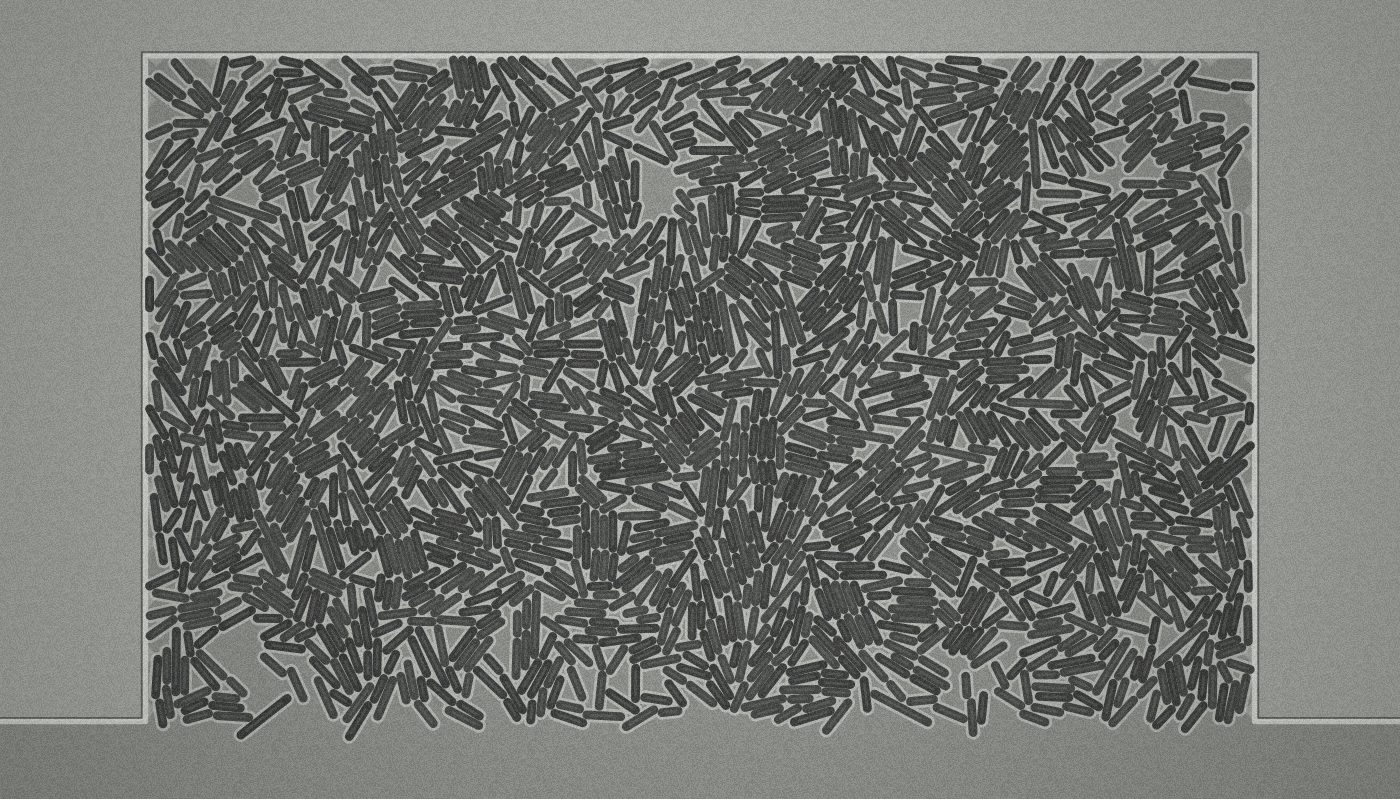
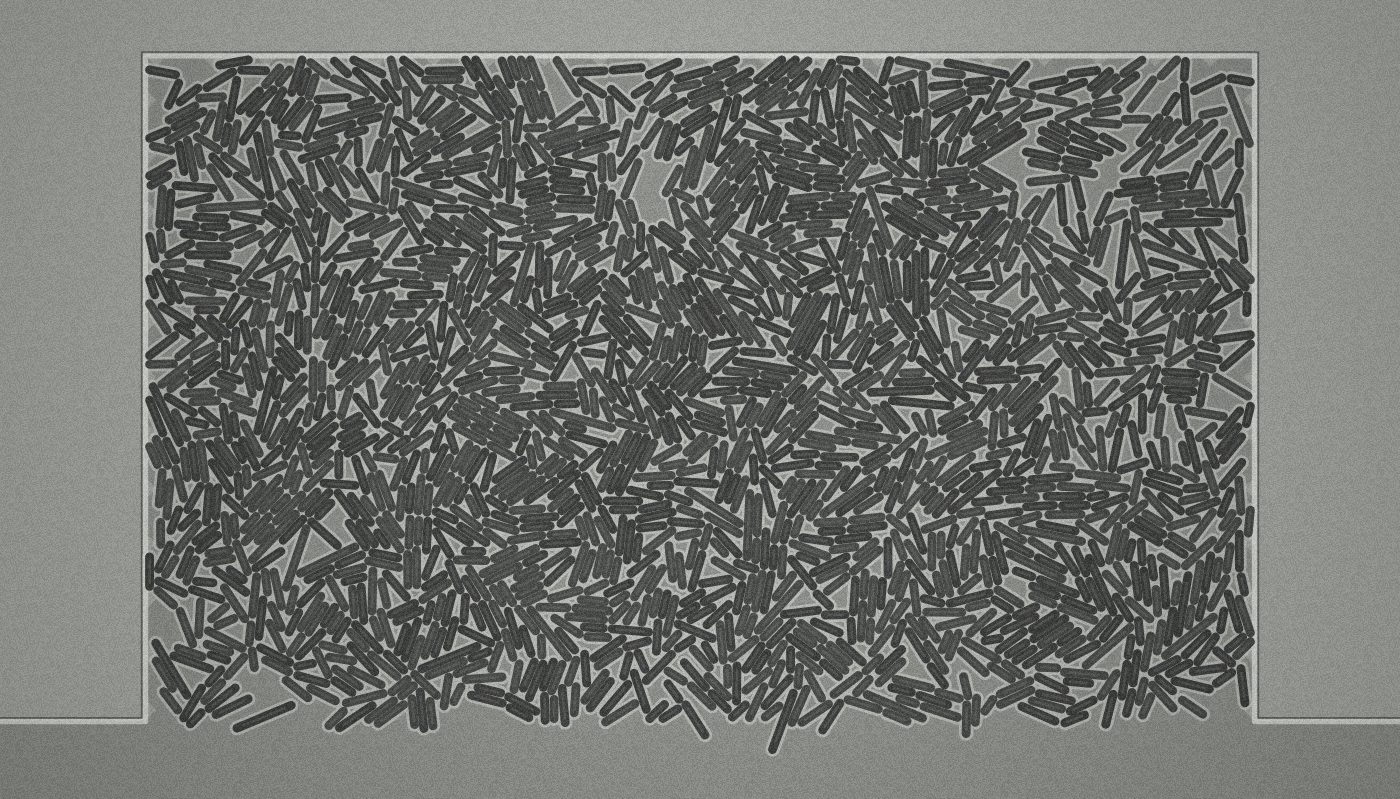
Overlap report: browser session and screenshots with the final defaults

diff --git a/reports/overlap-report.md b/reports/overlap-report.md
@@ -168,24 +168,26 @@ anchors that never let go the median was 12–15%.
 ## Browser screenshots
 
 A 60 000-step session in headless Chrome with the final defaults (`index.html?seed=7`, 200 steps
-per frame; the page confirmed `anchorMaxStretch=2`), paused every ~6000 steps for screenshots:
-the whole chamber in the phase-contrast and diagnostic views, and diagnostic close-ups (~18 × 11
-units) around the deepest pair at the last snapshot and of the top-left corner. In the diagnostic
-view each cell has its true capsule outline, and anchors are black squares with a line to their
-cell. Pairs deeper than 1% of the width are drawn orange, deeper than the target red. At the
-close-up zoom one pixel is ~0.013 units, so a 5% overlap (0.04) would show as ~3 pixels of
-outline crossing a neighbour.
+per frame; the page confirmed `anchorMaxStretch=2`, `growthGroups=5`, `continuousDrag=1`, 8
+iterations), paused every ~6000 steps for screenshots. Each pause took the whole chamber in the
+phase-contrast and diagnostic views, plus diagnostic close-ups (~18 × 11 units) around the
+deepest pair at the last snapshot and of the top-left corner. In the diagnostic view each cell has
+its true capsule outline, and anchors are black squares with a line to their cell. Pairs deeper
+than 1% of the width are drawn orange, deeper than the target (8%) red. At the close-up zoom one
+pixel is ~0.013 units, so a 5% overlap (0.04) would show as ~3 pixels of outline crossing a
+neighbour.
 
 Readouts at each pause (overlap at the last snapshot; `screenshots/browser-session.log`): max
-0.81–1.74% at every pause from step 6400 to 60 400; mean 0.16–0.21%; deepest wall contact
-0.4–16%. There were no red pairs and no page errors, and the images show no visible overlap. The
-anchor lines are now all short (≤ 2 units). The session also downloaded the states through the
-page's own `download()`: 17.7 MB, 206 snapshots, 10 942 cell ids, valid `LowRes.json`.
+0.41–1.38% at every pause from step 6400 to 60 200; mean 0.06–0.09%; deepest wall contact
+0.3–5%. There were no red pairs and no page errors, and the images show no visible overlap. The
+session also downloaded the states through the page's own `download()`: 17.6 MB, 205 snapshots,
+10 834 cell ids, valid `LowRes.json`. In the page, physics took 10.5 ms per step at ~1710 cells,
+measured with other runs sharing the CPU.
 
 | | |
 |---|---|
 | ![phase, step 12 200](screenshots/step-012200-phase.jpg) | ![diagnostic, step 12 200](screenshots/step-012200-diagnostic.jpg) |
-| ![phase, step 60 400](screenshots/step-060400-phase.jpg) | ![diagnostic, step 60 400](screenshots/step-060400-diagnostic.jpg) |
-| ![close-up around the deepest pair, step 24 400](screenshots/step-024400-zoom-deepest.jpg) | ![close-up of the top-left corner, step 36 400](screenshots/step-036400-zoom-corner.jpg) |
-| ![close-up around the deepest pair, step 60 400](screenshots/step-060400-zoom-deepest.jpg) | ![close-up of the top-left corner, step 60 400](screenshots/step-060400-zoom-corner.jpg) |
+| ![phase, step 60 200](screenshots/step-060200-phase.jpg) | ![diagnostic, step 60 200](screenshots/step-060200-diagnostic.jpg) |
+| ![close-up around the deepest pair (1.4%), step 30 200](screenshots/step-030200-zoom-deepest.jpg) | ![close-up of the top-left corner, step 36 200](screenshots/step-036200-zoom-corner.jpg) |
+| ![close-up around the deepest pair, step 60 200](screenshots/step-060200-zoom-deepest.jpg) | ![close-up of the top-left corner, step 60 200](screenshots/step-060200-zoom-corner.jpg) |
 | ![fluorescence view, step 24 000](screenshots/step-024000-fluorescence.jpg) | ![the page with controls and overlap readout](screenshots/step-024000-fluorescence-page.jpg) |
